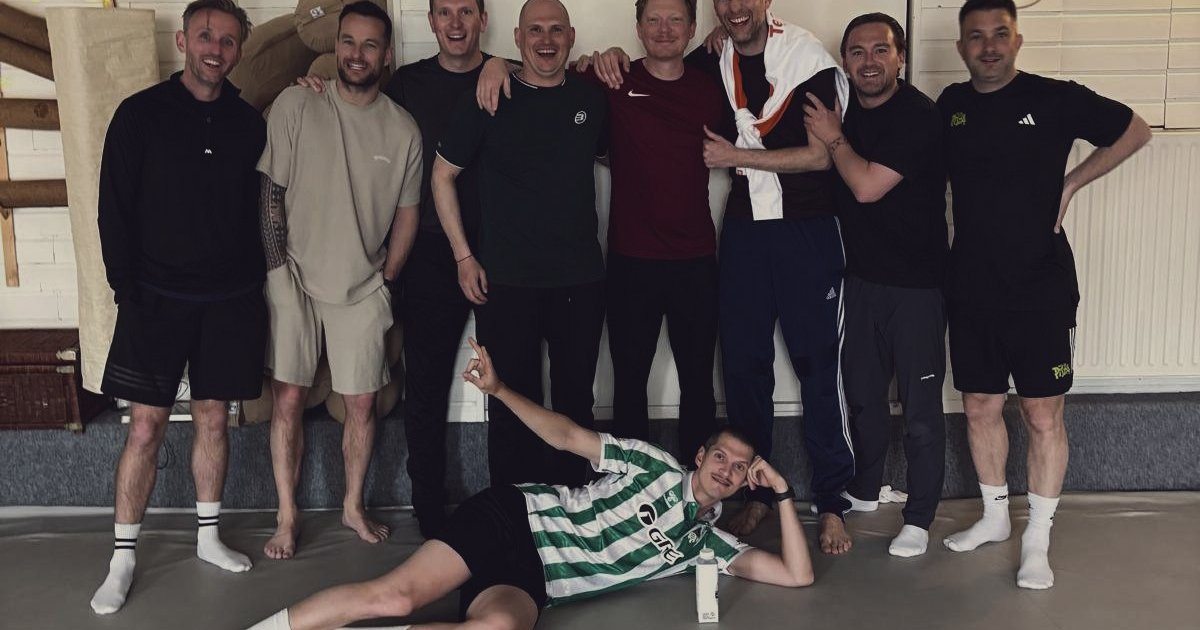
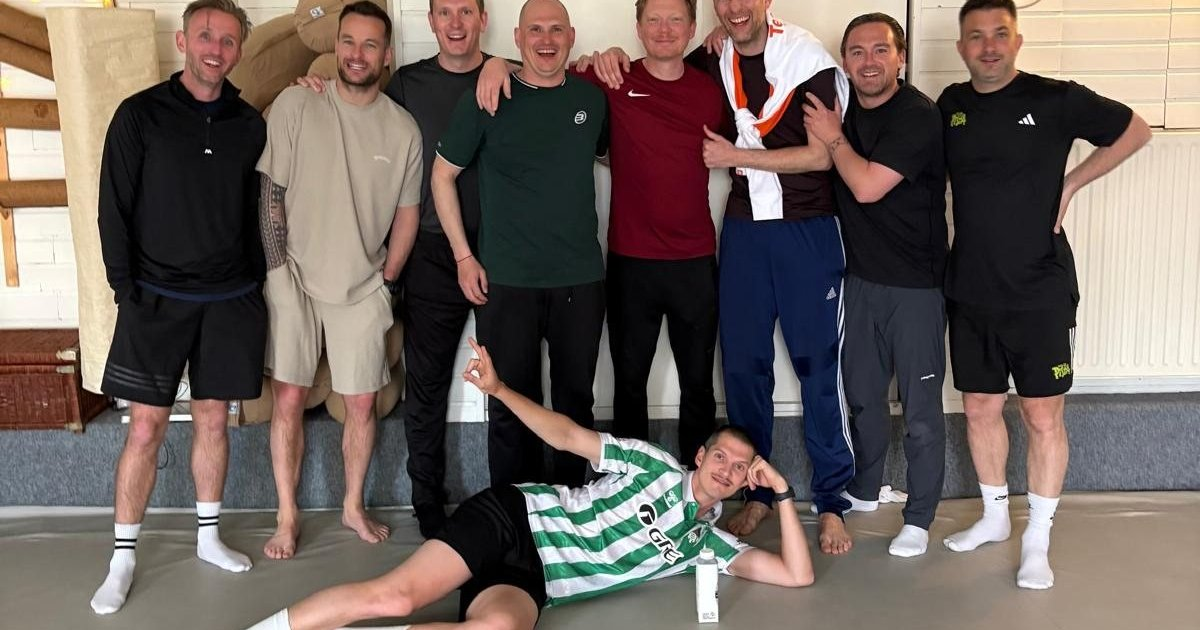
Kopfoto terug naar originele kleuren
Claude-Session: https://claude.ai/code/session_018z1AF5UH1eqdngZSu8zqfS

diff --git a/index.html b/index.html
@@ -474,7 +474,7 @@ td.nn { color: #B9A994; }
   <p class="kicker">Padelreis · 4 – 7 maart · Alfàs del Pi</p>
   <div class="poster">
     <div class="ptitle"><h1>Casa Pino</h1><p>× Padel · 2027</p></div>
-    <div class="pimg"><img src="photo-hero.jpg?v=18" width="1200" height="896" alt="De groep in sportkleren; Yung Marie ligt vooraan op de vloer"><div data-hs></div></div>
+    <div class="pimg"><img src="photo-hero.jpg?v=19" width="1200" height="896" alt="De groep in sportkleren; Yung Marie ligt vooraan op de vloer"><div data-hs></div></div>
     <div class="pbot"><p class="pq">‘Pils, padel en goeie gesprekken.’</p><p class="pn">Jouw stem telt (een beetje).</p><p class="ptap"><b>Selecteer jezelf</b> op de foto of kies hieronder je kaart.</p></div>
   </div>
   <div class="count" id="count"></div>
@@ -519,7 +519,7 @@ td.nn { color: #B9A994; }
 <div class="toast" id="toast" role="status" aria-live="polite"></div>
 
 <script type="module">
-const V = "18";
+const V = "19";
 const [{ listen, save, listenIdeas, addIdea, editIdea, setHelper, getScout, saveScout, listScout }, Q, P, C] = await Promise.all([
   import(`./store.js?v=${V}`), import(`./questions.js?v=${V}`), import(`./people.js?v=${V}`), import(`./cards.js?v=${V}`)
 ]);
